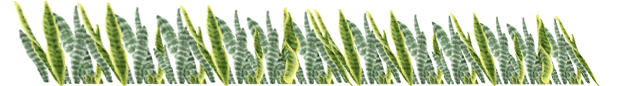
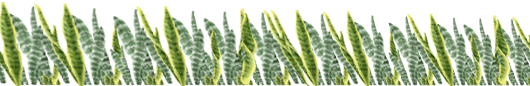
Plantas

diff --git a/css/custom.css b/css/custom.css
@@ -172,7 +172,7 @@ label {
 /* Calendario Mapa  */
 #calendario-booking {
   position: relative;
-  padding: 3rem 0;
+  padding: 2.5rem 0 ;
   background: rgba(235,235,235,0);
   background: -moz-linear-gradient(top, rgba(235,235,235,0) 0%, rgba(243,234,211,0) 4%, rgba(254,233,182,0.15) 9%, rgba(248,222,170,0.3) 14%, rgba(248,222,170,1) 37%);
   background: -webkit-gradient(left top, left bottom, color-stop(0%, rgba(235,235,235,0)), color-stop(4%, rgba(243,234,211,0)), color-stop(9%, rgba(254,233,182,0.15)), color-stop(14%, rgba(248,222,170,0.3)), color-stop(37%, rgba(248,222,170,1)));
@@ -212,18 +212,45 @@ label {
   display: none;
 }
 .calendario-plantas {
+  display: inline-block;
   height: auto;
   width: 100%;
   position: absolute;
-  bottom: 0rem;
+  bottom: -0;
+  /* bottom: -2.5rem; */
   left:0;
   z-index: 2;
   padding: 0;
+  overflow: hidden;
 }
-.calendario-plantas-cont-img {
+.calendario-planta {
   height: 100%;
+  width: 50%;
   padding: 0;
-   background-repeat: repeat-y;
+  display: table-cell;
+}
+.calendario-planta-fondo {
+  display: flex;
+  justify-content: center;
+  height: 100%;
+  width: 100%;
+  padding: 0;
+}
+.plantas-escritorio {
+  object-fit: contain;
+  height: 100%;
+  width: 100%;
+}
+.plantas-movil {
+  object-fit: contain;
+  height: 100%;
+  width: 100%;
+  display: none;
+}
+.calendario {
+  display: flex;
+  justify-content: center;
+  align-items: center;
 }
 /*  */
 .texto-home {
@@ -315,10 +342,22 @@ label {
   }
   #calendario-booking {
     padding: 1rem 0 5rem;
-    height: 750px;
+    height: auto;
   }
   .wc-bookings-availability-calendar-container.wc-bookings-availability-calendar-container-small.wc-bookings-availability-calendar-container-month-view {
     height: 23rem;
+  }
+  .wp-block-woocommerce-bookings-availability-calendar-block {
+    width: 100%;
+  }
+  .plantas-movil {
+    display: block;
+  }
+  .plantas-escritorio {
+    display: none;
+  }
+  .calendario-plantas {
+    bottom: -5rem;
   }
 }
 @media only screen and (max-width:479px) {
@@ -338,8 +377,8 @@ label {
   div#et-main-area .products li a h2 {
     font-size: 0.65rem;
   }
-  #calendario-booking {
-    height: 968px;
+  .calendario-plantas {
+    bottom: -2rem;
   }
 }
 /* Animation */

diff --git a/woocommerce/archive-product.php b/woocommerce/archive-product.php
@@ -24,14 +24,7 @@ get_header('shop');
 <section id="calendario-booking" class="container-fluid">
   <div class="col-12">
     <div class="row">
-
-/
-get_header('shop');
-?>
-
-<section id="calendario-booking" class="container-fluid">
-  <div class="col-12">
-      <div class="col-xs-12 col-md-4 col-lg-6">
+      <div class="calendario col-xs-12 col-md-4 col-lg-6">
         <section class="container texto-home">
           <br>
           <h3 class="col-12 text-center">Welcome to Yaya Beach</h3>
@@ -49,7 +42,7 @@ get_header('shop');
 
       </div>
 
-      <div class="col-xs-12 col-md-8 col-lg-6">
+      <div class="calendario col-xs-12 col-md-8 col-lg-6">
 
         <?php
 
@@ -65,14 +58,13 @@ get_header('shop');
 
         ?>
 
-      </div>
-
     </div>
   </div>
 
   <div class="calendario-plantas col-12">
-    <div class="calendario-plantas-cont-img col-12 ">
-      <img src="<?php echo get_stylesheet_directory_uri(); ?>/img/YAYA_plantas.2.png" alt="YayaBeach Club Mahahual">
+    <div class="calendario-planta-fondo col-12 ">
+      <img class="plantas-escritorio" src="<?php echo get_stylesheet_directory_uri(); ?>/img/plantas.yaya.png" alt="YayaBeach Club Mahahual">
+      <img class="plantas-movil" src="<?php echo get_stylesheet_directory_uri(); ?>/img/YAYA_plantas.png" alt="YayaBeach Club Mahahual">
     </div>
   </div>
 </section>
